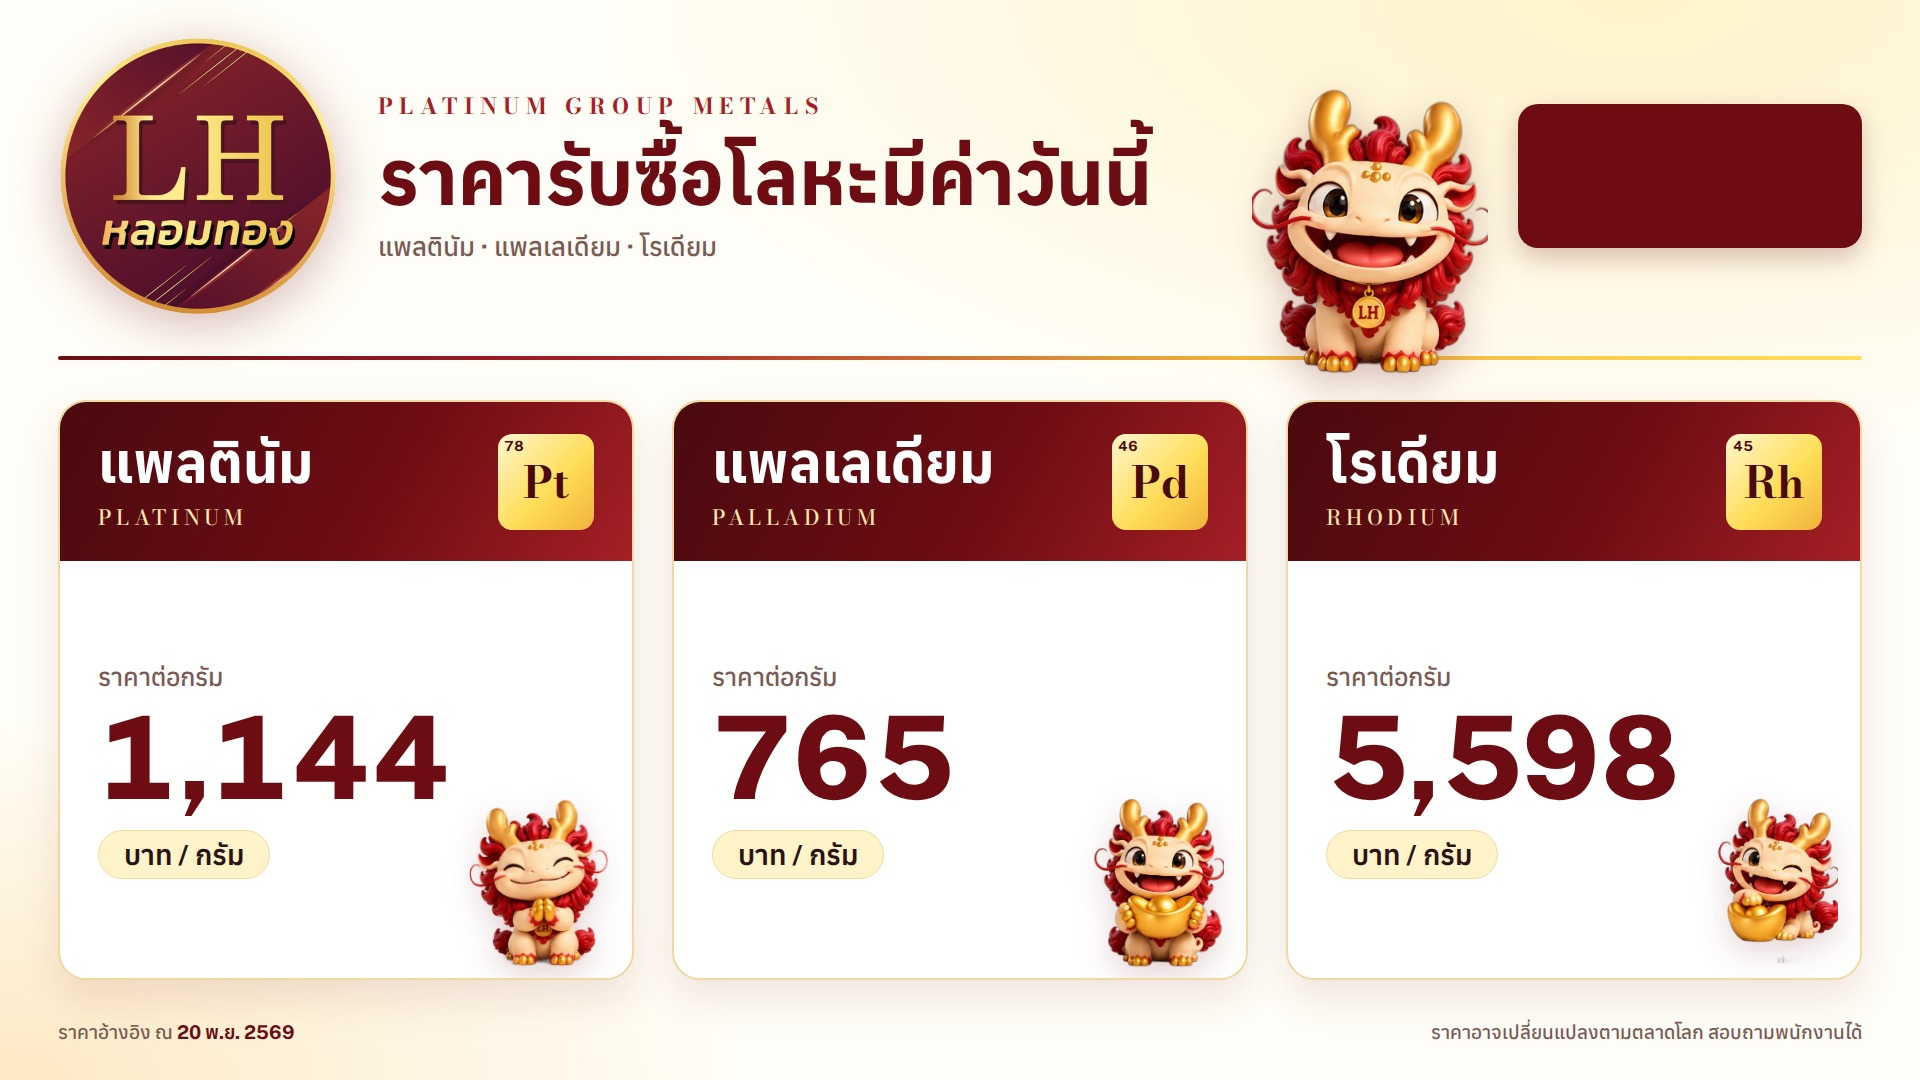
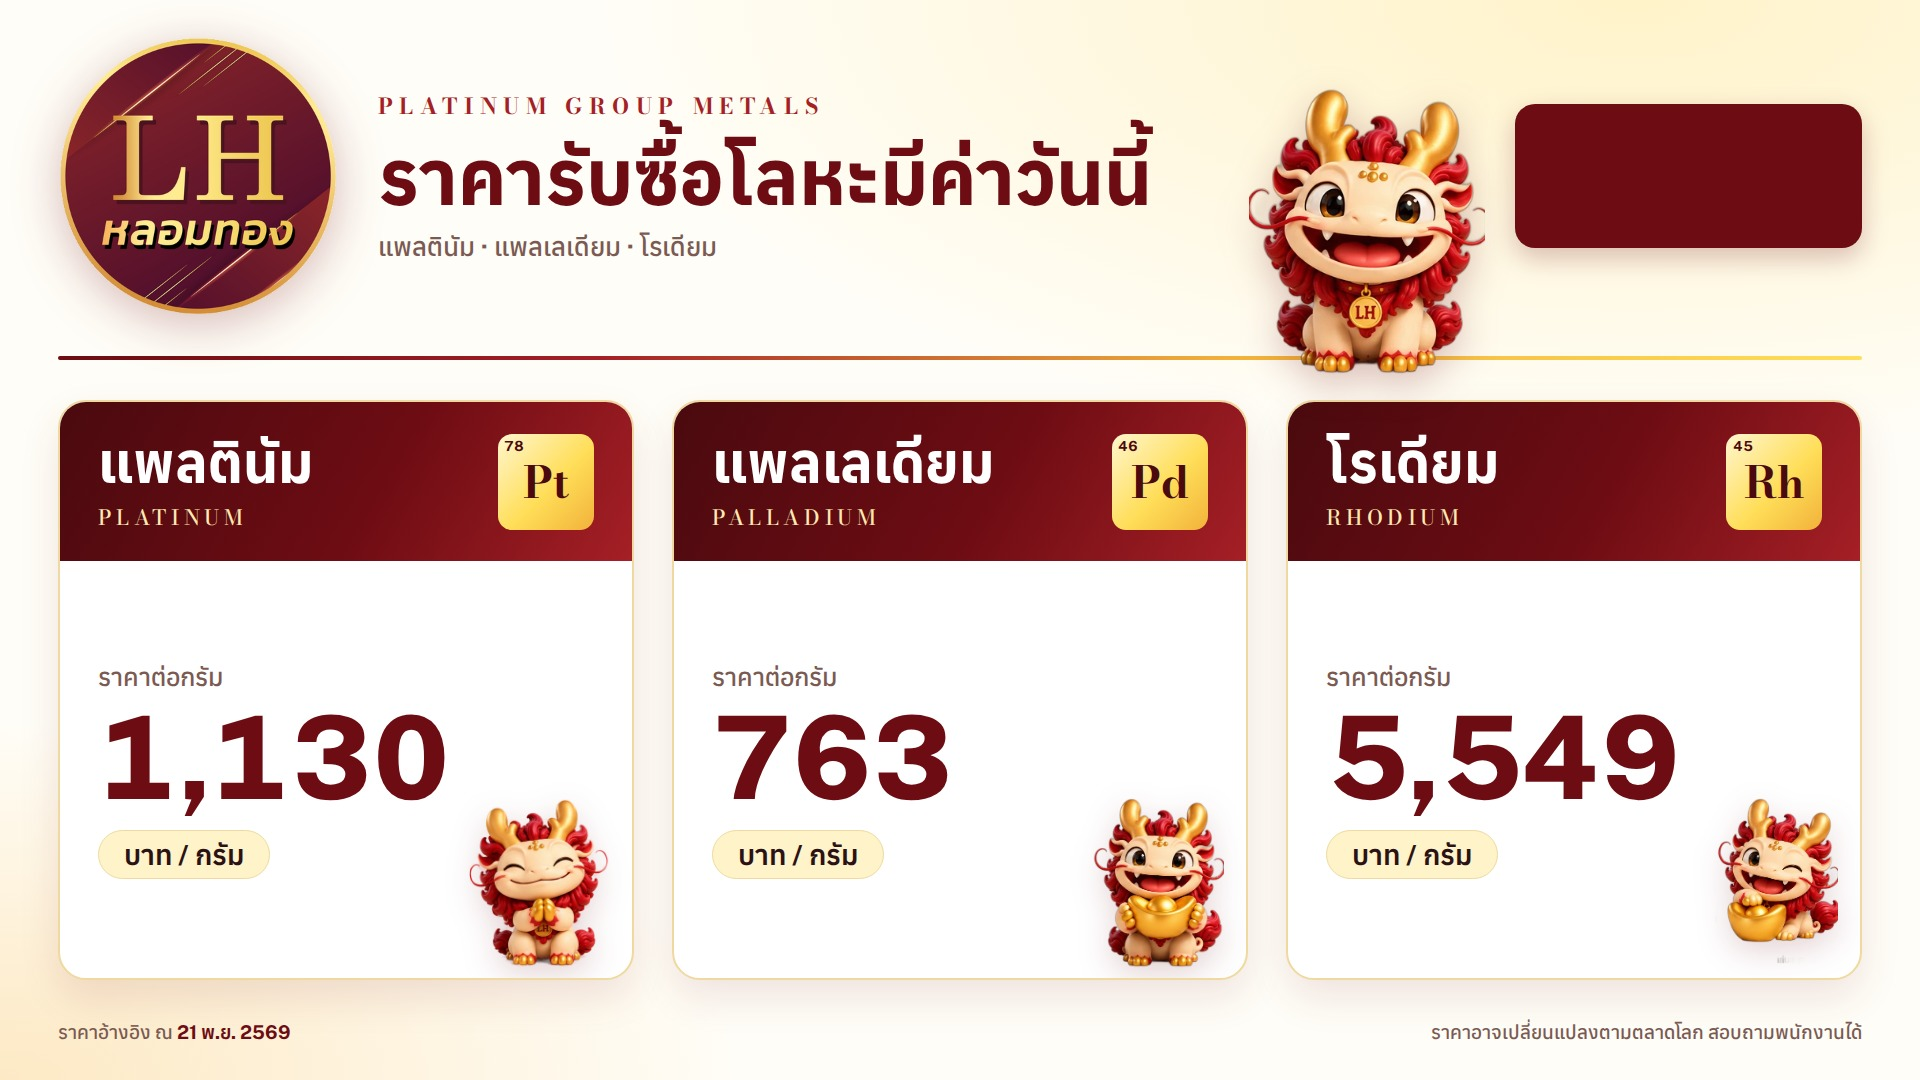
Update prices 2026-11-21

diff --git a/board.html b/board.html
@@ -302,15 +302,15 @@ html{-webkit-text-size-adjust:100%;text-size-adjust:100%}
      ราคาแต่ละเกรด = ราคาเงินหลังหัก × เปอร์เซ็นต์ (99.99% ใช้ราคาเต็ม)
    showSilver = เปิด/ปิดหน้าราคาเงิน, rotateSeconds = เปลี่ยนหน้าทุกกี่วินาที */
 const CONFIG = {
-  asOf: "20 พ.ย. 2569",
+  asOf: "21 พ.ย. 2569",
   fx: 33.94,
   discount: 0.20,
   rotateSeconds: 15,
   showSilver: true,
   metals: [
-    { th:"แพลตินัม",  en:"Platinum",  sym:"Pt", z:78, usdPerGram:42.1496 },
-    { th:"แพลเลเดียม", en:"Palladium", sym:"Pd", z:46, usdPerGram:28.164 },
-    { th:"โรเดียม",    en:"Rhodium",   sym:"Rh", z:45, usdPerGram:274.89, discount:0.40 }
+    { th:"แพลตินัม",  en:"Platinum",  sym:"Pt", z:78, usdPerGram:41.6352 },
+    { th:"แพลเลเดียม", en:"Palladium", sym:"Pd", z:46, usdPerGram:28.0997 },
+    { th:"โรเดียม",    en:"Rhodium",   sym:"Rh", z:45, usdPerGram:272.48, discount:0.40 }
   ],
   silver: { pricePerKg: 55000, grades: [95, 92.5, 90, 70, 50, 30] }
 };
